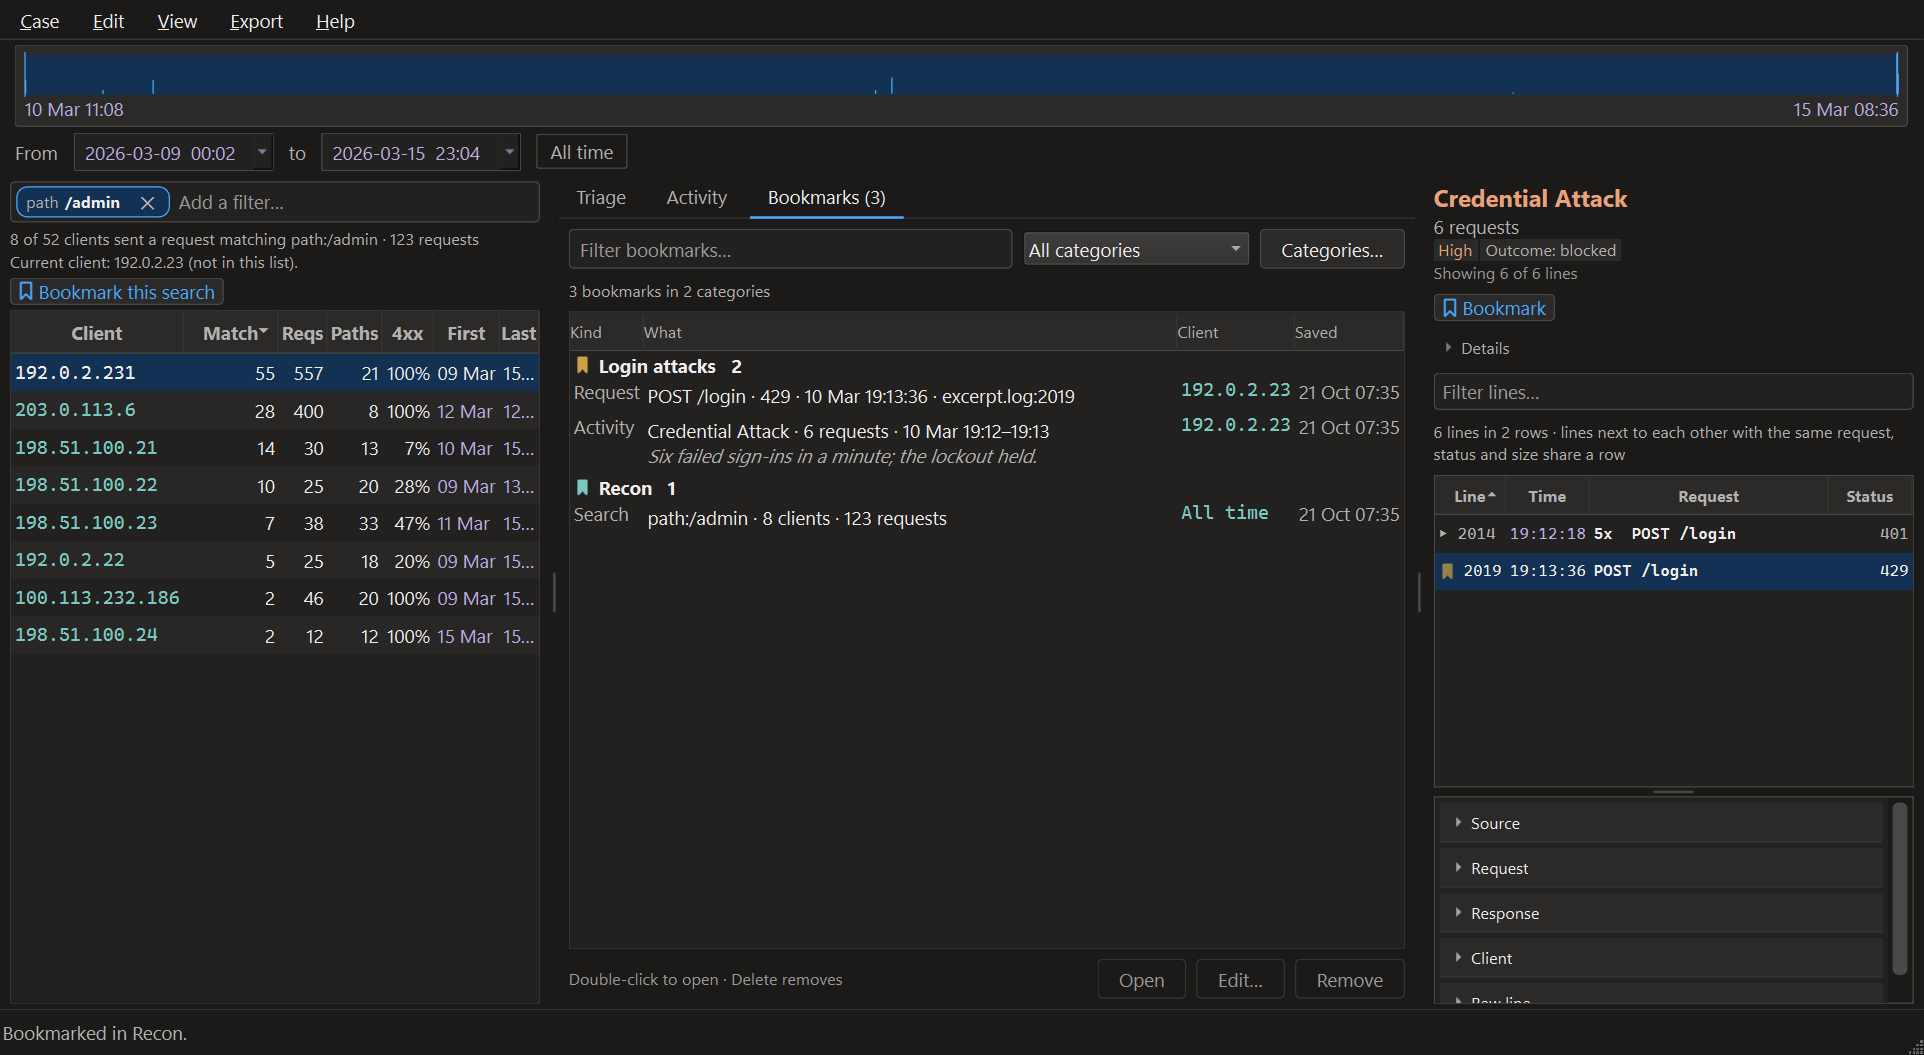
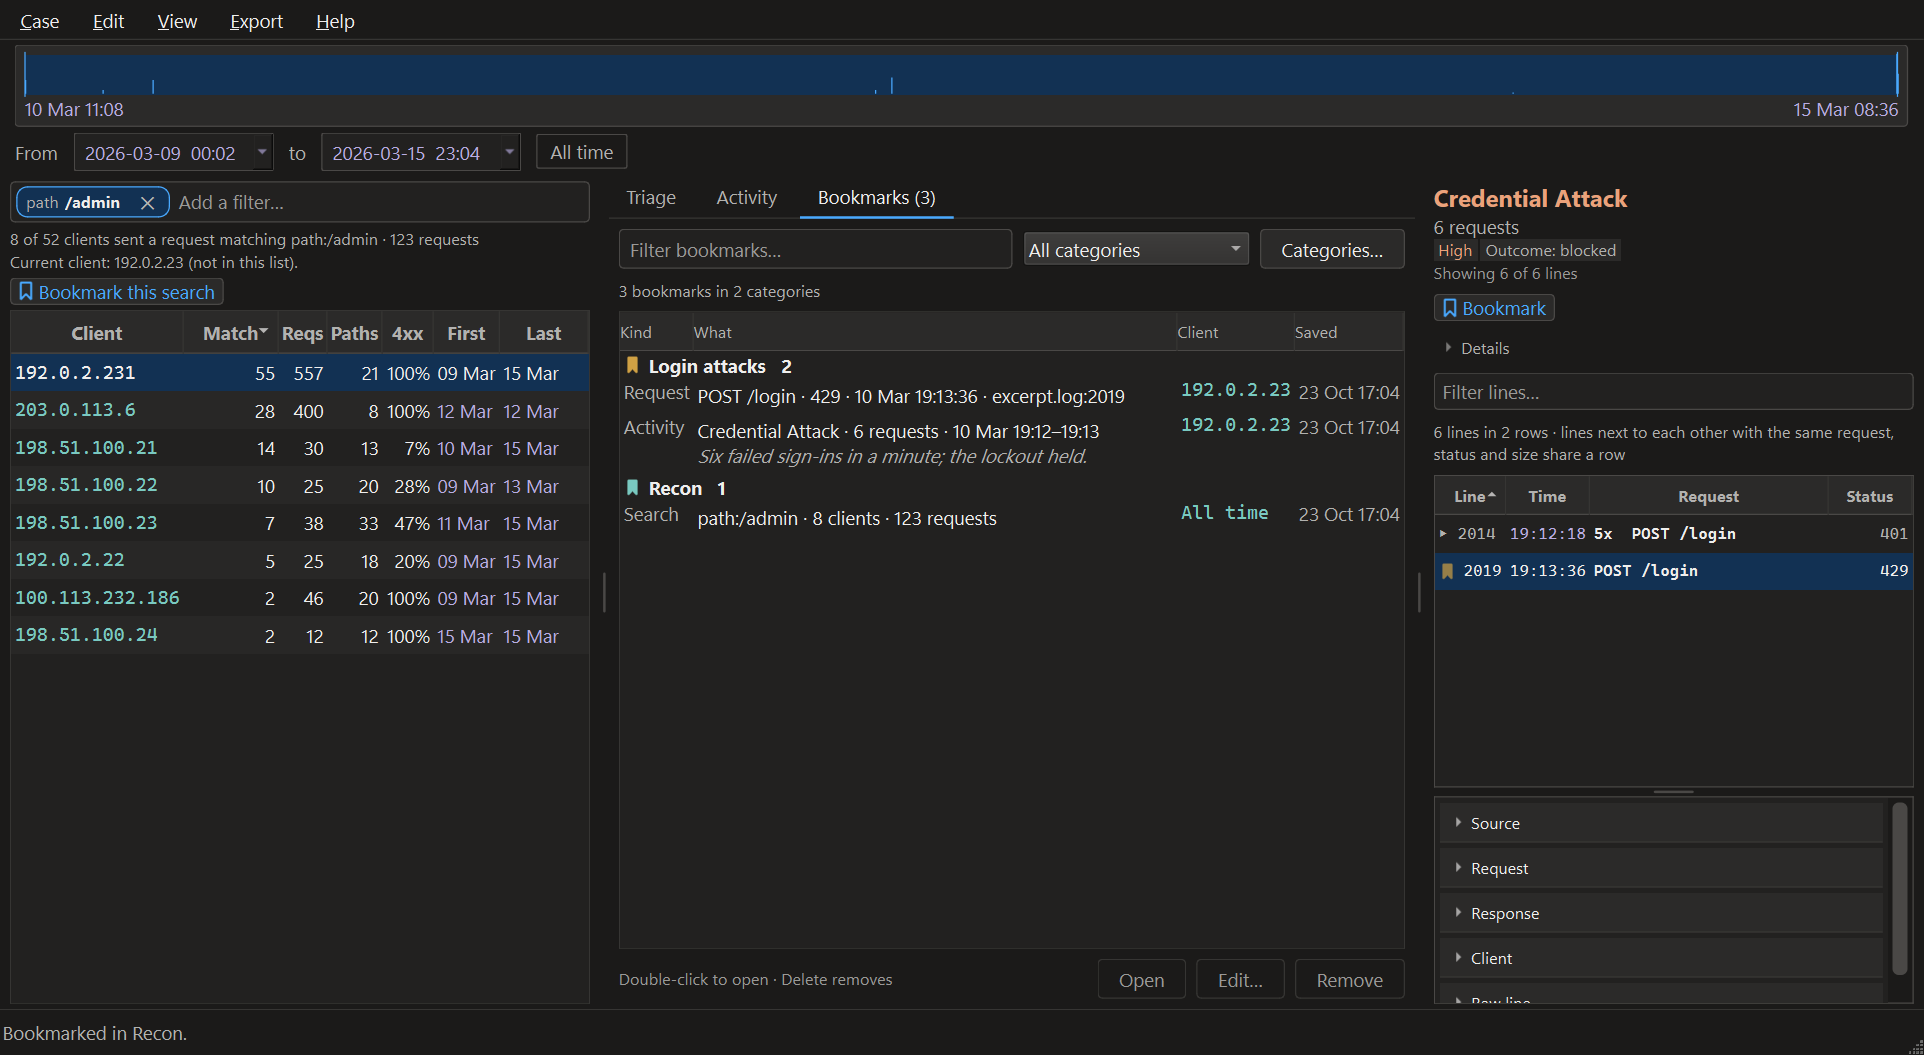
docs: the wider client panel in the screenshots and the changelog
Seven window screenshots retaken at the new panel width. The rules one also
shows the Add rule button, which arrived after it was last taken.

diff --git a/CHANGELOG.md b/CHANGELOG.md
@@ -939,6 +939,12 @@ which will be the first tag.
 
 ### Fixed
 
+- **A search no longer cuts the client list's Last date.** A search adds a
+  Match column, and at the default window the client panel had no room for
+  it: Last read `15…` on every row. The panel now opens at 480 px instead of
+  440, taken from the graph, and can still be dragged narrower. Without a
+  search, Last has room for the time as well.
+
 - **Closing the window no longer ends in a crash.** On the way out of `main`,
   Python released the application before the window, and a window destroyed
   after its application could crash the process with an access violation, after
